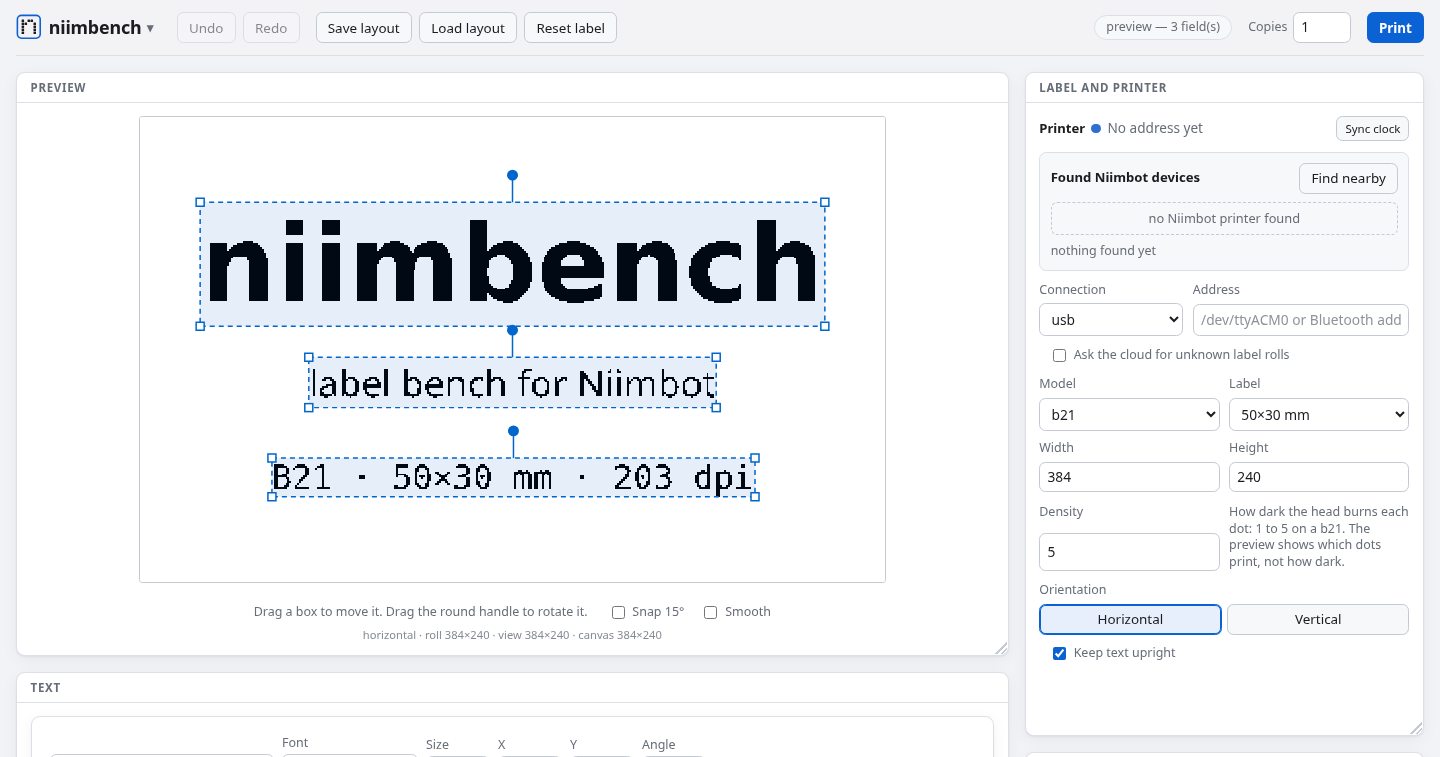
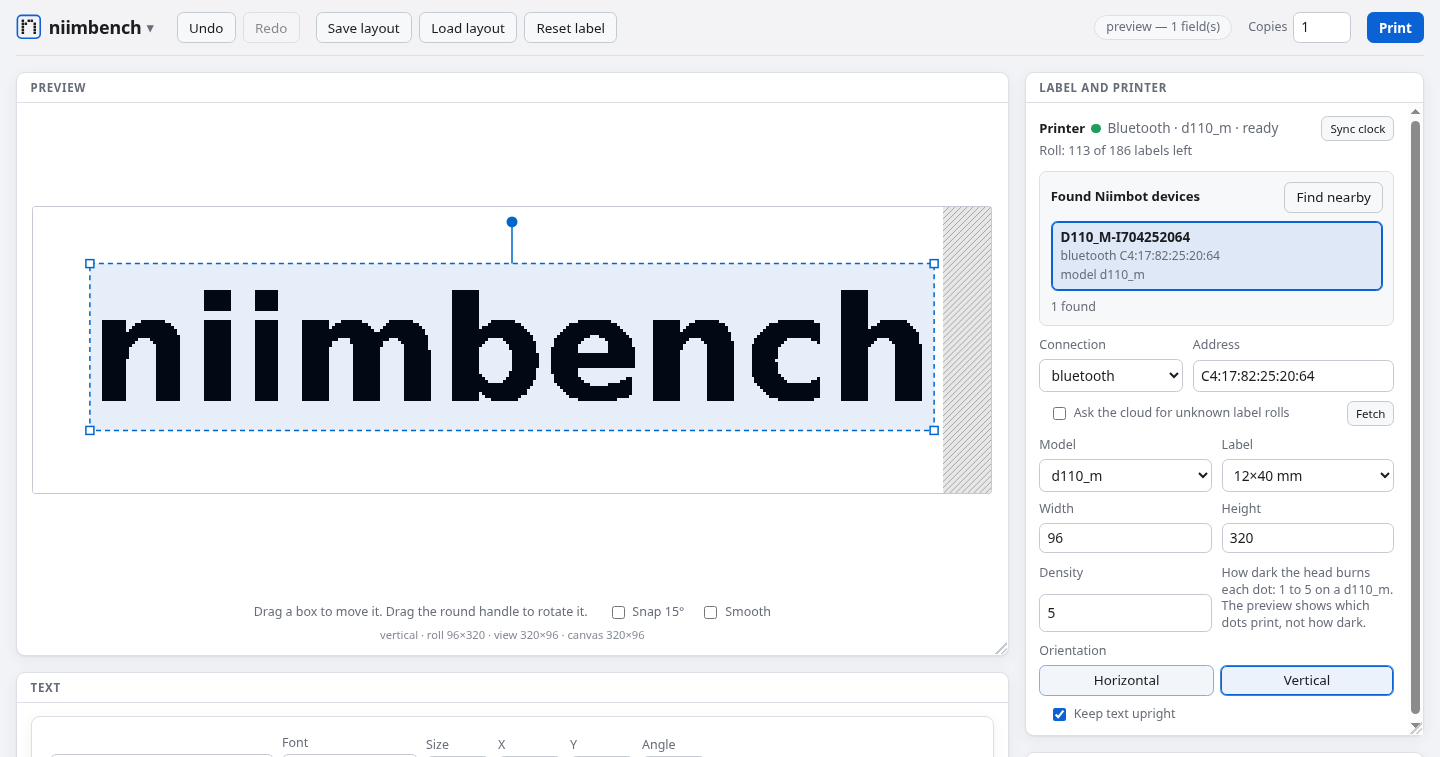
docs: retake the README screenshot with a D110_M connected
The screenshot showed a B21 label with no printer, from before Fetch, the
roll line and the roll read. It now shows a D110_M connected over
Bluetooth with its 12x40 roll read and the labels left, and niimbench
fitted across the label in the vertical view.

tools/with-server.sh boots the built-in plugin list, printers included,
when NIIMBENCH_PRINTERS is set, so the screenshot's make drive command
can reach the printer at hand; without it nothing changes.

diff --git a/docs/assets/editor.drive.js b/docs/assets/editor.drive.js
@@ -1,26 +1,27 @@
-// The README's screenshot, docs/assets/editor.png: the editor on a 50×30 mm
-// B21 label with three fields. Refresh it after the page changes with:
-//
-//   make drive STEPS=docs/assets/editor.drive.js SIZE=1440x900 DRIVE_OUT=docs/assets
-const layout = {
-  width: 384,
-  height: 240,
-  model: "b21",
-  label: "50x30",
-  density: 5,
-  rotate: 0,
-  conn: "usb",
-  addr: "",
-  fields: [
-    { text: "niimbench", x: 192, y: 44, size: 64, font: "dejavu-sans-bold", align_mode: "center", rotation: 0 },
-    { text: "label bench for Niimbot", x: 192, y: 124, size: 26, font: "open-sans", align_mode: "center", rotation: 0 },
-    { text: "B21 · 50×30 mm · 203 dpi", x: 192, y: 176, size: 20, font: "dejavu-sans-mono", align_mode: "center", rotation: 0 },
-  ],
-};
+// The README's screenshot, docs/assets/editor.png: the editor with a D110_M
+// connected. The startup scan picks it, its 12x40 roll is read, and one field
+// is set to "niimbench", turned to the Vertical view and fitted to the label.
+// docs/assets/README.md has the command that takes it.
+const wait = (expr, ms) => `new Promise((resolve) => {
+  const started = Date.now();
+  (function poll() { if ((${expr}) || Date.now() - started > ${ms}) resolve(); else setTimeout(poll, 250); })();
+})`;
 
 module.exports = async (page) => {
-  await page.evaluate(`(async () => { applyLayout(${JSON.stringify(layout)}); await refresh(); })()`);
-  // No scrollbar down the edge of a picture.
+  await page.evaluate(wait(`!document.querySelector("#printer-roll").hidden`, 40000));
+  await page.evaluate(`(async () => {
+    const row = rows[0];
+    row.controls.font.value = "dejavu-sans-bold";
+    row.controls.font.dispatchEvent(new Event("change", { bubbles: true }));
+    row.controls.text.value = "niimbench";
+    row.controls.text.dispatchEvent(new Event("input", { bubbles: true }));
+    document.querySelector("#upright").checked = true;
+    document.querySelector('.orient button[data-rotate="90"]').click();
+    await refresh();
+    [...row.row.querySelectorAll("button")].find((b) => b.textContent === "Fit").click();
+    await refresh();
+    document.activeElement && document.activeElement.blur();
+  })()`);
   await page.evaluate("window.scrollTo(0, 0); document.documentElement.style.overflow = 'hidden'");
   await page.shot("editor");
 };

diff --git a/docs/assets/README.md b/docs/assets/README.md
@@ -15,7 +15,7 @@ The mark is a die-cut label with an `n` in square thermal dots. The wordmark is 
 | [icon.svg](icon.svg) | The mark's dots on a filled blue tile, which reads on any background and at 16 pixels: the favicon, which the editor inlines, an app icon, an avatar |
 | [icon-512.png](icon-512.png), [apple-touch-icon.png](apple-touch-icon.png) | `icon.svg` at 512 and 180 pixels, for places that take no SVG |
 | [social-preview.png](social-preview.png), [social-preview.svg](social-preview.svg) | The 1280×640 card GitHub shows for a shared link. It is set by hand, under the repository's Settings → Social preview |
-| [editor.png](editor.png), [editor.drive.js](editor.drive.js) | The README's screenshot, and the steps `make drive` runs to take it |
+| [editor.png](editor.png), [editor.drive.js](editor.drive.js) | The README's screenshot, a D110_M connected with its roll read, and the steps `make drive` runs to take it |
 
 The colours are the editor's own: accent `#0b62d4` and ink `#1b1c1f` on light, accent `#6ba6ff` and ink `#e7e9ee` on dark. The two dots over the `i`s always take the frame's colour. Leave clear space round the logo at least the frame's corner radius.
 
@@ -36,8 +36,8 @@ The social card, whose two lines of text are set in Noto Sans and Noto Sans Mono
 rsvg-convert -w 1280 -h 640 social-preview.svg -o social-preview.png
 ```
 
-The README screenshot, from the repository root:
+The README screenshot is taken with a D110 or D110_M on and in reach, paired over Bluetooth, and a 12x40 mm roll in it. `NIIMBENCH_PRINTERS=1` boots the throwaway server with its printer plugins, so the startup scan finds the printer and reads its roll. From the repository root:
 
 ```sh
-make drive STEPS=docs/assets/editor.drive.js SIZE=1440x900 DRIVE_OUT=docs/assets
+NIIMBENCH_PRINTERS=1 make drive STEPS=docs/assets/editor.drive.js SIZE=1440x900 DRIVE_OUT=docs/assets
 ```

diff --git a/README.md b/README.md
@@ -126,7 +126,7 @@ Everything below is detail.
 ## What it is
 
 <p align="center">
-  <img src="docs/assets/editor.png" alt="The niimbench label editor for Niimbot printers: a 50×30 mm label in the preview with three text fields in their dashed boxes, beside the label and printer panel" width="900">
+  <img src="docs/assets/editor.png" alt="The niimbench label editor with a D110_M connected over Bluetooth: its 12×40 mm roll read, 113 of 186 labels left, and niimbench fitted across the label in the vertical view" width="900">
 </p>
 
 One process serves the editor page on `127.0.0.1`, renders labels, and prints them over USB serial or Bluetooth Low Energy, through BlueZ on Linux and CoreBluetooth on macOS. The browser is a client of that server, and so is anything else that calls its HTTP API.
